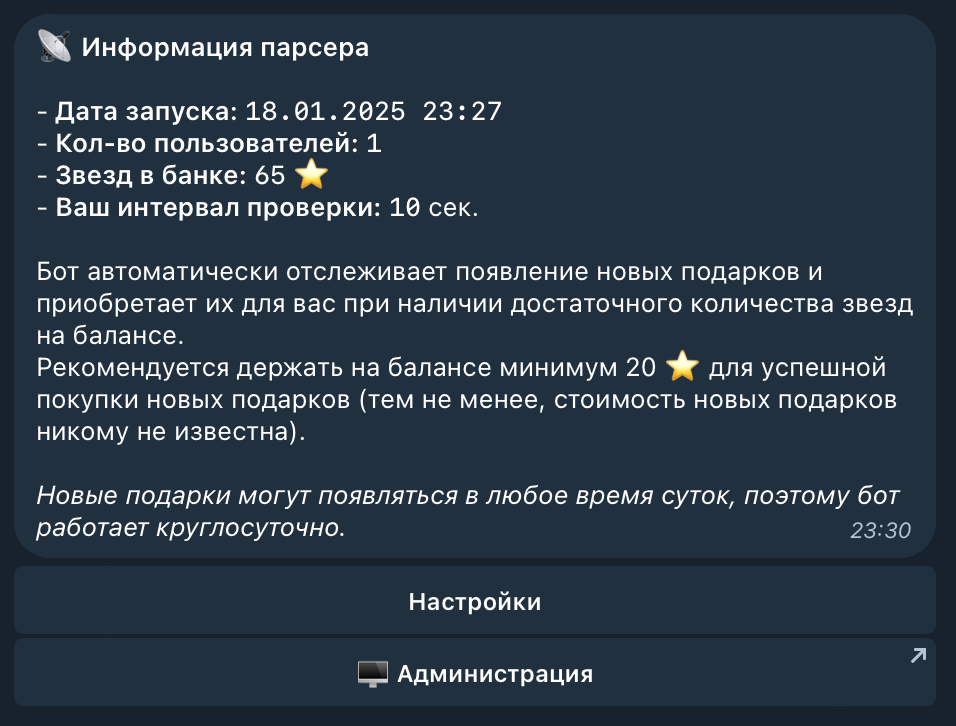
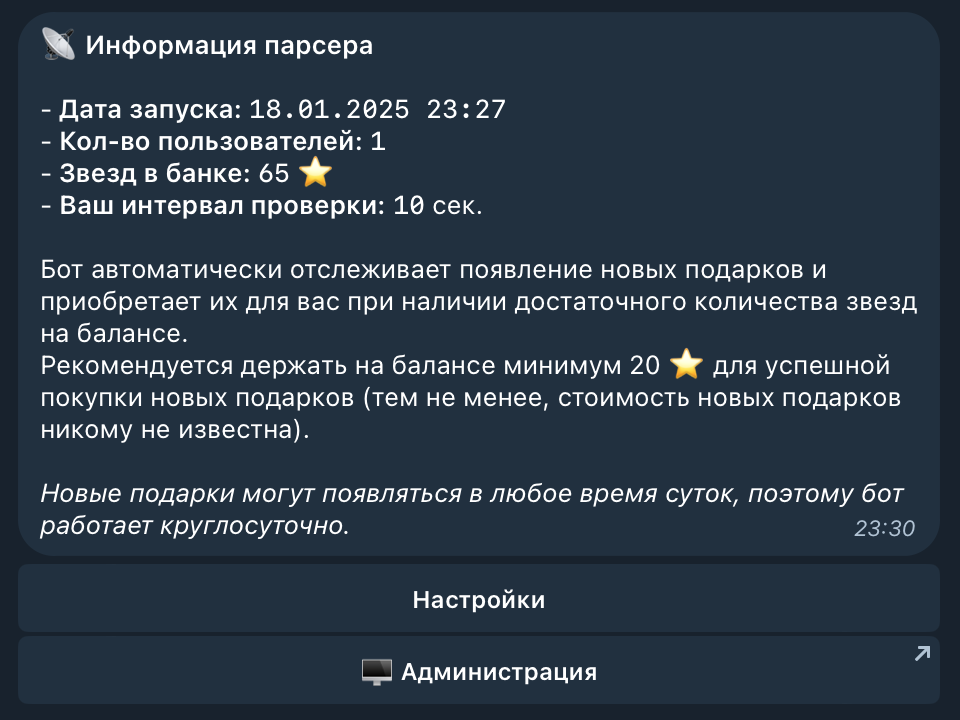
add photo readme

diff --git a/README.md b/README.md
@@ -1,7 +1,8 @@
 # Stars Sniper Bot 
 
 <div align="center">
-  <img src="images/gift.png" alt="Bot gift" width="200">
+  <img src="images/gift.png" alt="Bot gift" width="500">
+  <img src="images/menu.png" alt="Bot gift" width="500">
   
   Telegram бот для автоматизации покупки новых Telegram Gifts.
 </div>
